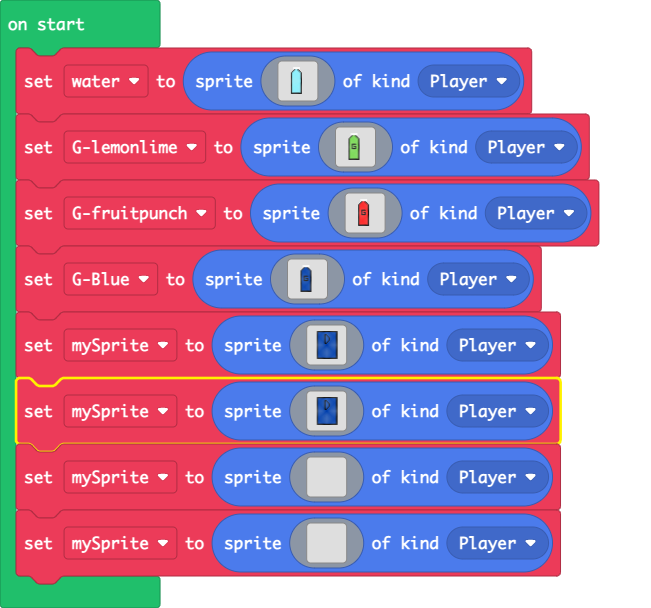
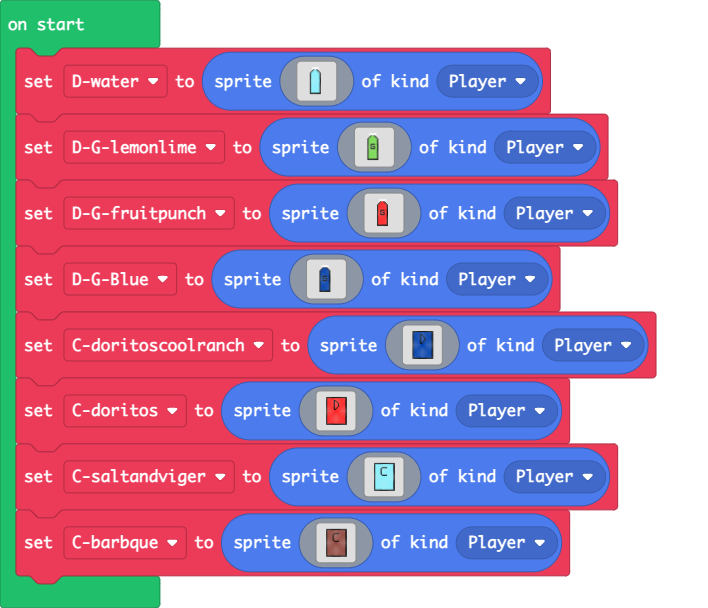
Update main.blocks, main.ts, images.g.jres, images.g.ts

diff --git a/main.ts b/main.ts
@@ -1,4 +1,4 @@
-let water = sprites.create(img`
+let Dwater = sprites.create(img`
     ....................
     ....................
     ......111111........
@@ -30,9 +30,9 @@ let water = sprites.create(img`
     ....................
     ....................
     `, SpriteKind.Player)
-let Glemonlime = sprites.create(assets.image`myImage`, SpriteKind.Player)
-let Gfruitpunch = sprites.create(assets.image`myImage0`, SpriteKind.Player)
-let GBlue = sprites.create(img`
+let DGlemonlime = sprites.create(assets.image`myImage`, SpriteKind.Player)
+let DGfruitpunch = sprites.create(assets.image`myImage0`, SpriteKind.Player)
+let DGBlue = sprites.create(img`
     ....................
     ....................
     ......111111........
@@ -64,41 +64,38 @@ let GBlue = sprites.create(img`
     ....................
     ....................
     `, SpriteKind.Player)
-let mySprite = sprites.create(assets.image`myImage1`, SpriteKind.Player)
-mySprite = sprites.create(assets.image`myImage1`, SpriteKind.Player)
-mySprite = sprites.create(img`
-    . . . . . . . . . . . . . . . . 
-    . . . . . . . . . . . . . . . . 
-    . . . . . . . . . . . . . . . . 
-    . . . . . . . . . . . . . . . . 
-    . . . . . . . . . . . . . . . . 
-    . . . . . . . . . . . . . . . . 
-    . . . . . . . . . . . . . . . . 
-    . . . . . . . . . . . . . . . . 
-    . . . . . . . . . . . . . . . . 
-    . . . . . . . . . . . . . . . . 
-    . . . . . . . . . . . . . . . . 
-    . . . . . . . . . . . . . . . . 
-    . . . . . . . . . . . . . . . . 
-    . . . . . . . . . . . . . . . . 
-    . . . . . . . . . . . . . . . . 
-    . . . . . . . . . . . . . . . . 
+let Cdoritoscoolranch = sprites.create(assets.image`myImage1`, SpriteKind.Player)
+let Cdoritos = sprites.create(assets.image`myImage2`, SpriteKind.Player)
+let Csaltandviger = sprites.create(img`
+    ..............................
+    ..............................
+    ......fffffffffffffffffff.....
+    ......f99999999999999999f.....
+    ......f99999999999999999f.....
+    ......f99999999999999999f.....
+    ......f999999fffff999999f.....
+    ......f99999f99999999999f.....
+    ......f99999f99999999999f.....
+    ......f99999f99999999999f.....
+    ......f99999f99999999999f.....
+    ......f99999f99999999999f.....
+    ......f99999f99999999999f.....
+    ......f999999fffff999999f.....
+    ......f99999999999999999f.....
+    ......f99999999999999999f.....
+    ......f99999999999999999f.....
+    ......f99999999999999999f.....
+    ......f99999999999999999f.....
+    ......f99999999999999999f.....
+    ......f99999999999999999f.....
+    ......f99999999999999999f.....
+    ......f99999999999999999f.....
+    ......f99999999999999999f.....
+    ......f99999999999999999f.....
+    ......f99999999999999999f.....
+    ......f99999999999999999f.....
+    ......fffffffffffffffffff.....
+    ..............................
+    ..............................
     `, SpriteKind.Player)
-mySprite = sprites.create(img`
-    . . . . . . . . . . . . . . . . 
-    . . . . . . . . . . . . . . . . 
-    . . . . . . . . . . . . . . . . 
-    . . . . . . . . . . . . . . . . 
-    . . . . . . . . . . . . . . . . 
-    . . . . . . . . . . . . . . . . 
-    . . . . . . . . . . . . . . . . 
-    . . . . . . . . . . . . . . . . 
-    . . . . . . . . . . . . . . . . 
-    . . . . . . . . . . . . . . . . 
-    . . . . . . . . . . . . . . . . 
-    . . . . . . . . . . . . . . . . 
-    . . . . . . . . . . . . . . . . 
-    . . . . . . . . . . . . . . . . 
-    . . . . . . . . . . . . . . . . 
-    . . . . . . . . . . . . . . . . 
-    `, SpriteKind.Player)
+let Cbarbque = sprites.create(assets.image`myImage3`, SpriteKind.Player)

diff --git a/images.g.ts b/images.g.ts
@@ -102,6 +102,72 @@ namespace myImages {
 ..............................
 ..............................
 `;
+            case "image4":
+            case "myImage2":return img`
+..............................
+..............................
+......fffffffffffffffffff.....
+......f22222222222222222f.....
+......f22222222222222222f.....
+......f222222ff222222222f.....
+......f222222f2f22222222f.....
+......f222222f22f2222222f.....
+......f222222f222f222222f.....
+......f222222f222f222222f.....
+......f222222f222f222222f.....
+......f222222f22f2222222f.....
+......f222222f2f22222222f.....
+......f222222ff222222222f.....
+......f22222222222222222f.....
+......f22222222222222222f.....
+......f22222222222222222f.....
+......f22222222222222222f.....
+......f22222222222222222f.....
+......f22222222222222222f.....
+......f22222222222222222f.....
+......f22222222222222222f.....
+......f22222222222222222f.....
+......f22222222222222222f.....
+......f22222222222222222f.....
+......f22222222222222222f.....
+......f22222222222222222f.....
+......fffffffffffffffffff.....
+..............................
+..............................
+`;
+            case "image5":
+            case "myImage3":return img`
+..............................
+..............................
+......fffffffffffffffffff.....
+......feeeeeeeeeeeeeeeeef.....
+......feeeeeeeeeeeeeeeeef.....
+......feeeeeeeeeeeeeeeeef.....
+......feeeeeefffffeeeeeef.....
+......feeeeefeeeeeeeeeeef.....
+......feeeeefeeeeeeeeeeef.....
+......feeeeefeeeeeeeeeeef.....
+......feeeeefeeeeeeeeeeef.....
+......feeeeefeeeeeeeeeeef.....
+......feeeeefeeeeeeeeeeef.....
+......feeeeeefffffeeeeeef.....
+......feeeeeeeeeeeeeeeeef.....
+......feeeeeeeeeeeeeeeeef.....
+......feeeeeeeeeeeeeeeeef.....
+......feeeeeeeeeeeeeeeeef.....
+......feeeeeeeeeeeeeeeeef.....
+......feeeeeeeeeeeeeeeeef.....
+......feeeeeeeeeeeeeeeeef.....
+......feeeeeeeeeeeeeeeeef.....
+......feeeeeeeeeeeeeeeeef.....
+......feeeeeeeeeeeeeeeeef.....
+......feeeeeeeeeeeeeeeeef.....
+......feeeeeeeeeeeeeeeeef.....
+......feeeeeeeeeeeeeeeeef.....
+......fffffffffffffffffff.....
+..............................
+..............................
+`;
         }
         return null;
     })
